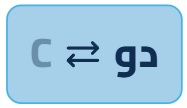
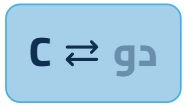
ازرار دو سي بالعربي و الانجليزي للشرح

diff --git a/index.html b/index.html
@@ -5871,14 +5871,14 @@ function buildOudStatic(){
         t.setAttribute('font-weight', '800');
         t.setAttribute('fill', '#0a2f52');
         const isEnNs = (window.oudLanguage === 'en');
-        // الزر يعرض الاسمين معاً (C ⇄ Do / C ⇄ دو): النظام الحالي غامق والبديل باهت
+        // الزر يعرض الاسمين معاً (C ⇄ Do / C ⇄ دو): الغامق هو النظام الذي ستنتقل إليه عند الضغط (كبقية الأزرار)، والباهت هو الحالي
         t.setAttribute('direction', 'ltr'); t.setAttribute('font-size', String(34 * BTN_K));
         if (!isEnNs) t.setAttribute('font-family', "'Cairo', Arial, sans-serif");
         const nsSolfWord = isEnNs ? 'Do' : '\u062F\u0648';
         const nsLabel = () => {
           const isLetter = (window.oudNoteSystem === 'letter');
           while (t.firstChild) t.removeChild(t.firstChild);
-          [['C', isLetter], ['\u2003\u2002', true], [nsSolfWord, !isLetter]].forEach(([txt, on], i) => {
+          [['C', !isLetter], ['\u2003\u2002', true], [nsSolfWord, isLetter]].forEach(([txt, on], i) => {
             const ts = document.createElementNS('http://www.w3.org/2000/svg', 'tspan');
             ts.textContent = txt;
             if (i !== 1) ts.setAttribute('fill-opacity', on ? '1' : '0.4');
@@ -11111,7 +11111,7 @@ document.getElementById('shared-playBtn').onclick = async function() {
       <p>في الصف السفلي، بين زر تبديل الآلة وزر التقييم، يوجد زر يبدّل طريقة تسمية النغمات بين نظامين، وهو متاح <strong>بالعربي وبالإنجليزي</strong> وفي كل التبويبات:</p>
       <p>🔹 <strong>صولفيج (دو، ري، مي... / Do, Re, Mi...)</strong> — الافتراضي.</p>
       <p>🔹 <strong>حروف لاتينية (C, D, E...)</strong> — مفيدة لمن اعتاد قراءة الحروف، وتظهر علامات التحويل (♯ ♭) بعد الحرف.</p>
-      <p>🔹 يكتب الزر الاسمين معاً بسهمين بينهما: <strong>C ⇄ دو</strong> بالعربي و<strong>C ⇄ Do</strong> بالإنجليزي. الاسم الواضح هو النظام المستخدم حالياً، والاسم الباهت هو النظام الذي ستنتقل إليه عند الضغط على الزر.</p>
+      <p>🔹 يكتب الزر الاسمين معاً بسهمين بينهما: <strong>C ⇄ دو</strong> بالعربي و<strong>C ⇄ Do</strong> بالإنجليزي. الاسم الواضح هو النظام الذي ستنتقل إليه عند الضغط على الزر، والاسم الباهت هو النظام المستخدم حالياً (كبقية الأزرار التي تعرض ما بعد الضغط).</p>
       <p>🔹 التبديل يُطبَّق فوراً على كل شيء: أسماء النغمات على الآلة المعروضة (الزند أو الأورغ أو القانون)، قائمة اختيار المحطّ، أسماء الأوتار، أسماء الكوردات، ودائرة الرابعات والخامسات.</p>
       <div class="help-svg-wrap"><img loading="lazy" decoding="async" src="images/help/help_02.jpg" alt="زر تبديل نظام تسمية النغمات (C ⇄ دو)" style="width:120px;border-radius:6px;display:block;margin:8px auto;"/></div>
     </div>
@@ -11420,7 +11420,7 @@ document.getElementById('shared-playBtn').onclick = async function() {
       <p>In the bottom row, between the instrument switch button and the rate button, there is a button that switches between two note-naming systems. It is available in <strong>both Arabic and English</strong> and on all tabs:</p>
       <p>🔹 <strong>Solfège (Do, Re, Mi... / دو، ري، مي...)</strong> — the default.</p>
       <p>🔹 <strong>Latin letters (C, D, E...)</strong> — handy if you are used to reading letter names; accidentals (♯ ♭) appear after the letter.</p>
-      <p>🔹 The button shows both names with arrows between them: <strong>C ⇄ Do</strong> in English and <strong>C ⇄ دو</strong> in Arabic. The bold name is the system currently in use, and the faded one is the system you will switch to when you press it.</p>
+      <p>🔹 The button shows both names with arrows between them: <strong>C ⇄ Do</strong> in English and <strong>C ⇄ دو</strong> in Arabic. The bold name is the system you will switch to when you press it, and the faded one is the system currently in use (like the other buttons, which show what happens after the press).</p>
       <p>🔹 The switch applies instantly everywhere: note names on the displayed instrument (oud fretboard, organ or qanun), the root-selection list, string names, chord names, and the circle of fourths/fifths.</p>
       <div class="help-svg-wrap"><img loading="lazy" decoding="async" src="images/help/help_02E.jpg" alt="Note-naming toggle button (C ⇄ Do)" style="width:120px;border-radius:6px;display:block;margin:8px auto;"/></div>
     </div>
